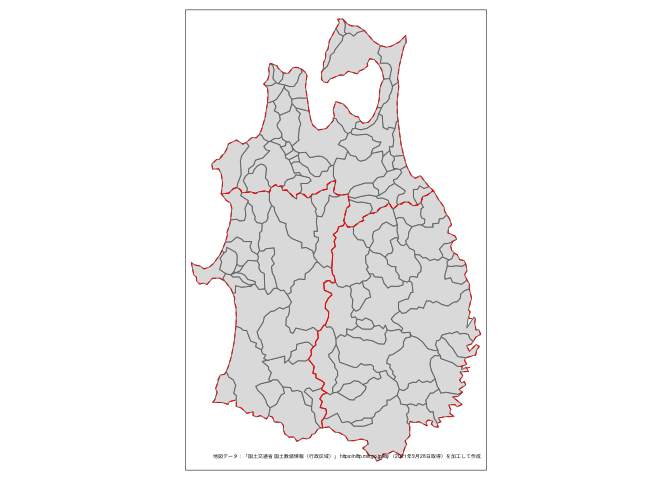
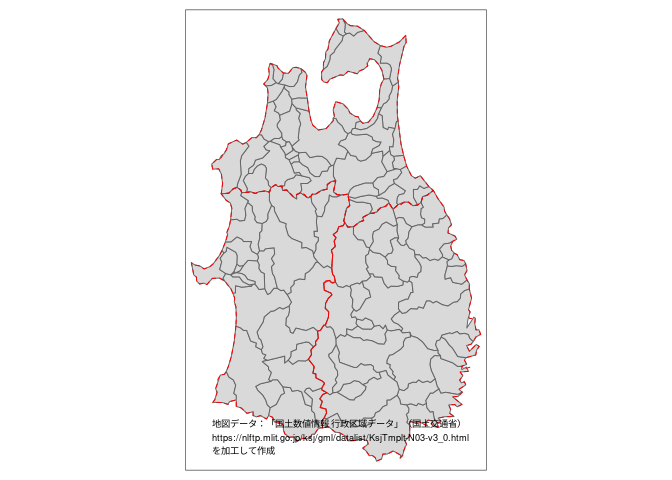
docs: update README

Changed region(s): [[0.3125, 0.875, 0.7188, 0.9688]]

diff --git a/README.md b/README.md
@@ -13,7 +13,7 @@ experimental](https://img.shields.io/badge/lifecycle-experimental-orange.svg)](h
 
 ## Overview
 
-「全国地方公共団体コード」と国内の行政区画の地図データセットを扱うRパッケージです。
+「全国地方公共団体コード」と国内の行政区域の地図データセットを扱うRパッケージです。
 
 ## Installation
 
@@ -26,7 +26,7 @@ remotes::install_github("paithiov909/jisx0402")
 
 ### municipality
 
-`municipality`は、日本にある行政区画名とその市区町村コードの一覧です。
+`municipality`は、日本にある行政区域名とその市区町村コードの一覧です。
 
 総務省では、都道府県コード（JIS X 0401）と市区町村コード（JIS X
 0402）とを組み合わせた数字を[全国地方公共団体コード](https://www.soumu.go.jp/denshijiti/code.html)として定めています（このほかに「一部事務組合等コード」も全国地方公共団体コードに含まれますが、そちらはこのパッケージでは探せません）。
@@ -79,6 +79,8 @@ jisx0402::municipality |>
 #> # ℹ 21 more rows
 ```
 
+なお、この一覧中には含まれていませんが、行政区域としての都道府県そのものは`city_code`を`000`として同様の方法で表示します。
+
 ### jpprefs
 
 `jpprefs`は都道府県コードの一覧です。英語表記などがほしい場合には`zipangu::jpnprefs`を利用してください。
@@ -125,14 +127,14 @@ jisx0402::jpaddresses
 
 ### jptopography
 
-`jptopography()`は、日本の行政区画（市区町村）の地図データを`sf`オブジェクトとして返す関数です。
+`jptopography()`は、日本の行政区域の地図データを`sf`オブジェクトとして返す関数です。`muni_code`は国土交通省が[行政区域コード](https://nlftp.mlit.go.jp/ksj/gml/codelist/AdminiBoundary_CD.xlsx)として公開しているもので、全国地方公共団体コードと同じ番号になります。
 
 この関数で返されるデータは、スマートニュースが公開している[市区町村・選挙区
 地形データ](https://github.com/smartnews-smri/japan-topography)を元に、FlatGeobuf
 (`.fgb`) ファイルに加工したものです。
 
-元データが「国土交通省
-国土数値情報（行政区域）」として公開されているものを簡素化したデータであるため、この関数で返されるデータを利用する際には、国土交通省の指示するクレジット記載が必要になります。詳しくは国土数値情報ダウンロードサイトの利用規約を参照してください。
+元データが「国土数値情報
+行政区域データ」として公開されているもの（[第3.0版](https://nlftp.mlit.go.jp/ksj/gml/datalist/KsjTmplt-N03-v3_0.html)）を簡素化したデータであるため、この関数で返されるデータを利用する際には、国土交通省の指示するクレジット記載が必要になります。詳しくは[国土数値情報ダウンロードサイト](https://nlftp.mlit.go.jp/)の利用規約を参照してください。
 
 ``` r
 northern_tohoku <-
@@ -150,7 +152,12 @@ jisx0402::jptopography("designated") |>
   tmap::tm_polygons() +
   tmap::tm_shape(subset(jptopography("prefecture"), pref_code %in% northern_tohoku)) +
   tmap::tm_borders(col = "red", lty = 2) +
-  tmap::tm_credits("地図データ：「国土交通省 国土数値情報（行政区域）」 https://nlftp.mlit.go.jp/ksj/ （2021年9月28日取得）を加工して作成")
+  tmap::tm_credits(
+    paste("地図データ：「国土数値情報 行政区域データ」（国土交通省）",
+          "https://nlftp.mlit.go.jp/ksj/gml/datalist/KsjTmplt-N03-v3_0.html",
+          "を加工して作成",
+          sep = "\n")
+  )
 #> The legacy packages maptools, rgdal, and rgeos, underpinning the sp package,
 #> which was just loaded, will retire in October 2023.
 #> Please refer to R-spatial evolution reports for details, especially
